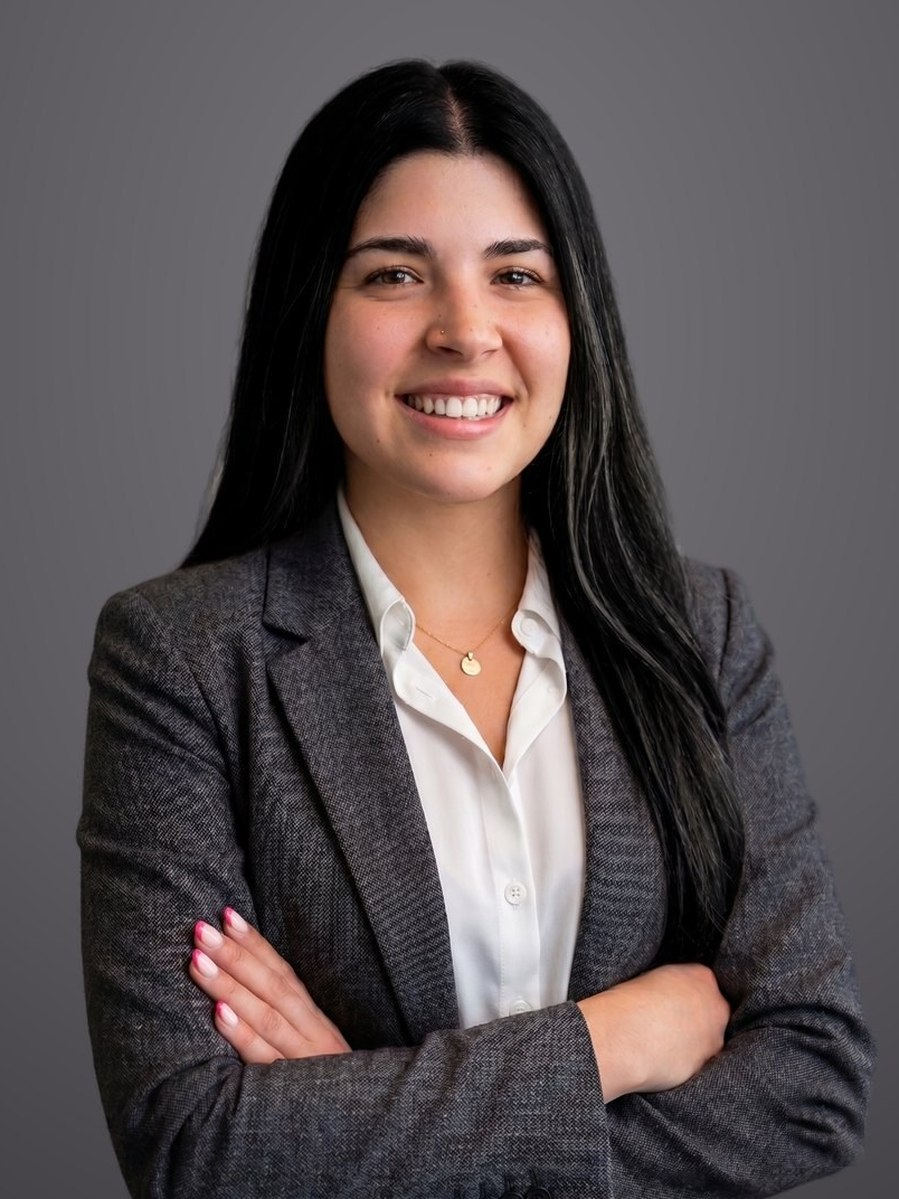
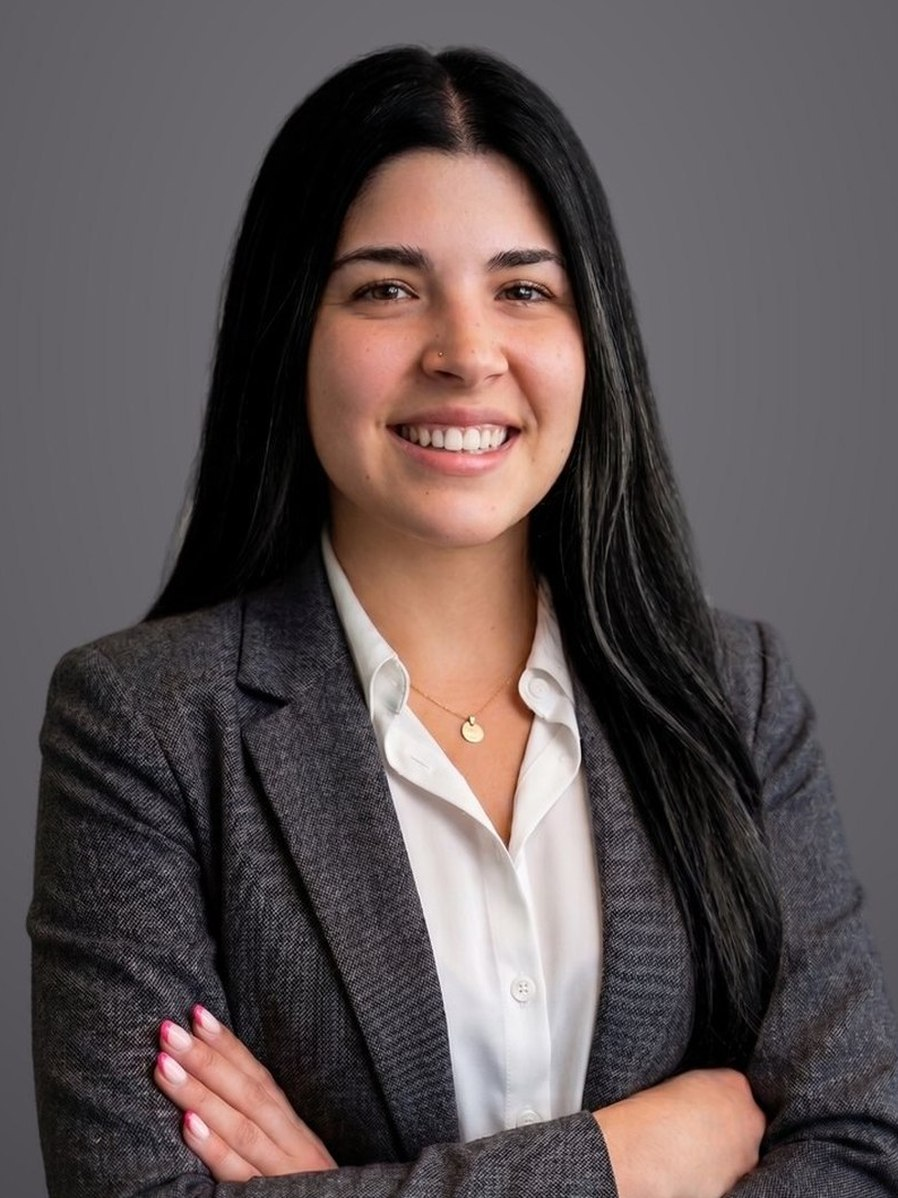
Zoom Roberta & Lavinia in; refit Cristina on gradient background
- Roberta & Lavinia: crop in to match the reference head size.
- Cristina: re-composite the head-and-shoulders crop onto a fresh gray
  gradient so the darker-edged background fills the frame (previous
  version showed a flat, too-light patch that didn't fit).

Claude-Session: https://claude.ai/code/session_01JxEtyj2fxvFpVKVP54jJEr

diff --git a/chi-siamo.html b/chi-siamo.html
@@ -177,7 +177,7 @@
             <a href="/team/silvia.html" class="team-card"><div class="team-card__photo">S</div><div class="team-card__name">Silvia Ungaro</div><div class="team-card__role" data-it="Senior Partner" data-en="Senior Partner">Senior Partner</div></a>
             <a href="/team/roberto.html" class="team-card"><div class="team-card__photo">R</div><div class="team-card__name">Roberto James Aloi</div><div class="team-card__role" data-it="Senior Partner" data-en="Senior Partner">Senior Partner</div></a>
             <a href="/team/carole.html" class="team-card"><div class="team-card__photo">C</div><div class="team-card__name">Carole Conti</div><div class="team-card__role" data-it="Senior Partner" data-en="Senior Partner">Senior Partner</div></a>
-            <a href="/team/roberta.html" class="team-card"><div class="team-card__photo"><img src="/img/team/roberta.jpg" alt="Roberta Tagliani" style="object-position:center 30%"></div><div class="team-card__name">Roberta Tagliani</div><div class="team-card__role" data-it="Senior Partner" data-en="Senior Partner">Senior Partner</div></a>
+            <a href="/team/roberta.html" class="team-card"><div class="team-card__photo"><img src="/img/team/roberta.jpg" alt="Roberta Tagliani" style="object-position:center 20%"></div><div class="team-card__name">Roberta Tagliani</div><div class="team-card__role" data-it="Senior Partner" data-en="Senior Partner">Senior Partner</div></a>
             <a href="/team/francesca.html" class="team-card"><div class="team-card__photo">F</div><div class="team-card__name">Francesca Rossini</div><div class="team-card__role" data-it="Junior Partner" data-en="Junior Partner">Junior Partner</div></a>
             <a href="/team/lavinia.html" class="team-card"><div class="team-card__photo"><img src="/img/team/lavinia.jpg" alt="Lavinia Di Genio" style="object-position:center 20%"></div><div class="team-card__name">Lavinia Di Genio</div><div class="team-card__role" data-it="Collaboratrice Junior" data-en="Junior Collaborator">Collaboratrice Junior</div></a>
           </div>
@@ -200,7 +200,7 @@
             <span class="team-group__eyebrow" data-it="Area Segreteria" data-en="Administration">Area Segreteria</span>
           </div>
           <div class="team-grid">
-            <a href="/team/cristina.html" class="team-card"><div class="team-card__photo"><img src="/img/team/cristina.jpg" alt="Cristina Milanesi" style="object-position:center 18%"></div><div class="team-card__name">Cristina Milanesi</div><div class="team-card__role" data-it="Front & Back Office" data-en="Front & Back Office">Front &amp; Back Office</div></a>
+            <a href="/team/cristina.html" class="team-card"><div class="team-card__photo"><img src="/img/team/cristina.jpg" alt="Cristina Milanesi" style="object-position:center 16%"></div><div class="team-card__name">Cristina Milanesi</div><div class="team-card__role" data-it="Front & Back Office" data-en="Front & Back Office">Front &amp; Back Office</div></a>
           </div>
         </div>
       </div>

diff --git a/index.html b/index.html
@@ -613,7 +613,7 @@
     </div>
     <div class="team-grid reveal">
       <a href="/team/cesare-trebeschi.html" class="team-card team-card--lead"><div class="team-card__photo"><img src="/img/cesare-trebeschi.jpg" alt="Cesare Trebeschi"></div><div class="team-card__name">Cesare Trebeschi</div><div class="team-card__role" data-it="CEO &amp; Fondatore" data-en="CEO &amp; Founder">CEO &amp; Fondatore</div></a>
-      <a href="/team/cristina.html" class="team-card"><div class="team-card__photo"><img src="/img/team/cristina.jpg" alt="Cristina Milanesi" style="object-position:center 18%"></div><div class="team-card__name">Cristina Milanesi</div><div class="team-card__role" data-it="Front &amp; Back Office" data-en="Front &amp; Back Office">Front &amp; Back Office</div></a>
+      <a href="/team/cristina.html" class="team-card"><div class="team-card__photo"><img src="/img/team/cristina.jpg" alt="Cristina Milanesi" style="object-position:center 16%"></div><div class="team-card__name">Cristina Milanesi</div><div class="team-card__role" data-it="Front &amp; Back Office" data-en="Front &amp; Back Office">Front &amp; Back Office</div></a>
       <a href="/team/alessio.html" class="team-card"><div class="team-card__photo"><img src="/img/team/alessio.jpg" alt="Alessio Di Cesare" style="object-position:center 32%"></div><div class="team-card__name">Alessio Di Cesare</div><div class="team-card__role" data-it="Responsabile Amministrativo" data-en="Head of Administration">Responsabile Amministrativo</div></a>
       <a href="/team/gianmaria.html" class="team-card"><div class="team-card__photo">G</div><div class="team-card__name">Gianmaria Bassani</div><div class="team-card__role" data-it="Amministrazione" data-en="Administration">Amministrazione</div></a>
       <a href="/team/mara.html" class="team-card"><div class="team-card__photo"><img src="/img/team/mara.jpg" alt="Mara Carioni" style="object-position:center 22%"></div><div class="team-card__name">Mara Carioni</div><div class="team-card__role" data-it="Responsabile Formazione" data-en="Head of Training">Responsabile Formazione</div></a>

diff --git a/team/cristina.html b/team/cristina.html
@@ -140,7 +140,7 @@
     <div class="bio-hero__inner">
       <a href="/chi-siamo.html#team" class="bio-back" data-it-html="&larr; Torna al team" data-en-html="&larr; Back to the team">← Torna al team</a>
       <div class="bio-photo">
-        <div class="bio-photo__frame"><img src="/img/team/cristina.jpg" alt="Cristina Milanesi" style="object-position:center 18%"></div>
+        <div class="bio-photo__frame"><img src="/img/team/cristina.jpg" alt="Cristina Milanesi" style="object-position:center 16%"></div>
         <div class="bio-photo__accent" aria-hidden="true"></div>
         <div class="bio-photo__accent-2" aria-hidden="true"></div>
       </div>

diff --git a/team/roberta.html b/team/roberta.html
@@ -140,7 +140,7 @@
     <div class="bio-hero__inner">
       <a href="/chi-siamo.html#team" class="bio-back" data-it-html="&larr; Torna al team" data-en-html="&larr; Back to the team">← Torna al team</a>
       <div class="bio-photo">
-        <div class="bio-photo__frame"><img src="/img/team/roberta.jpg" alt="Roberta Tagliani" style="object-position:center 30%"></div>
+        <div class="bio-photo__frame"><img src="/img/team/roberta.jpg" alt="Roberta Tagliani" style="object-position:center 20%"></div>
         <div class="bio-photo__accent" aria-hidden="true"></div>
         <div class="bio-photo__accent-2" aria-hidden="true"></div>
       </div>
